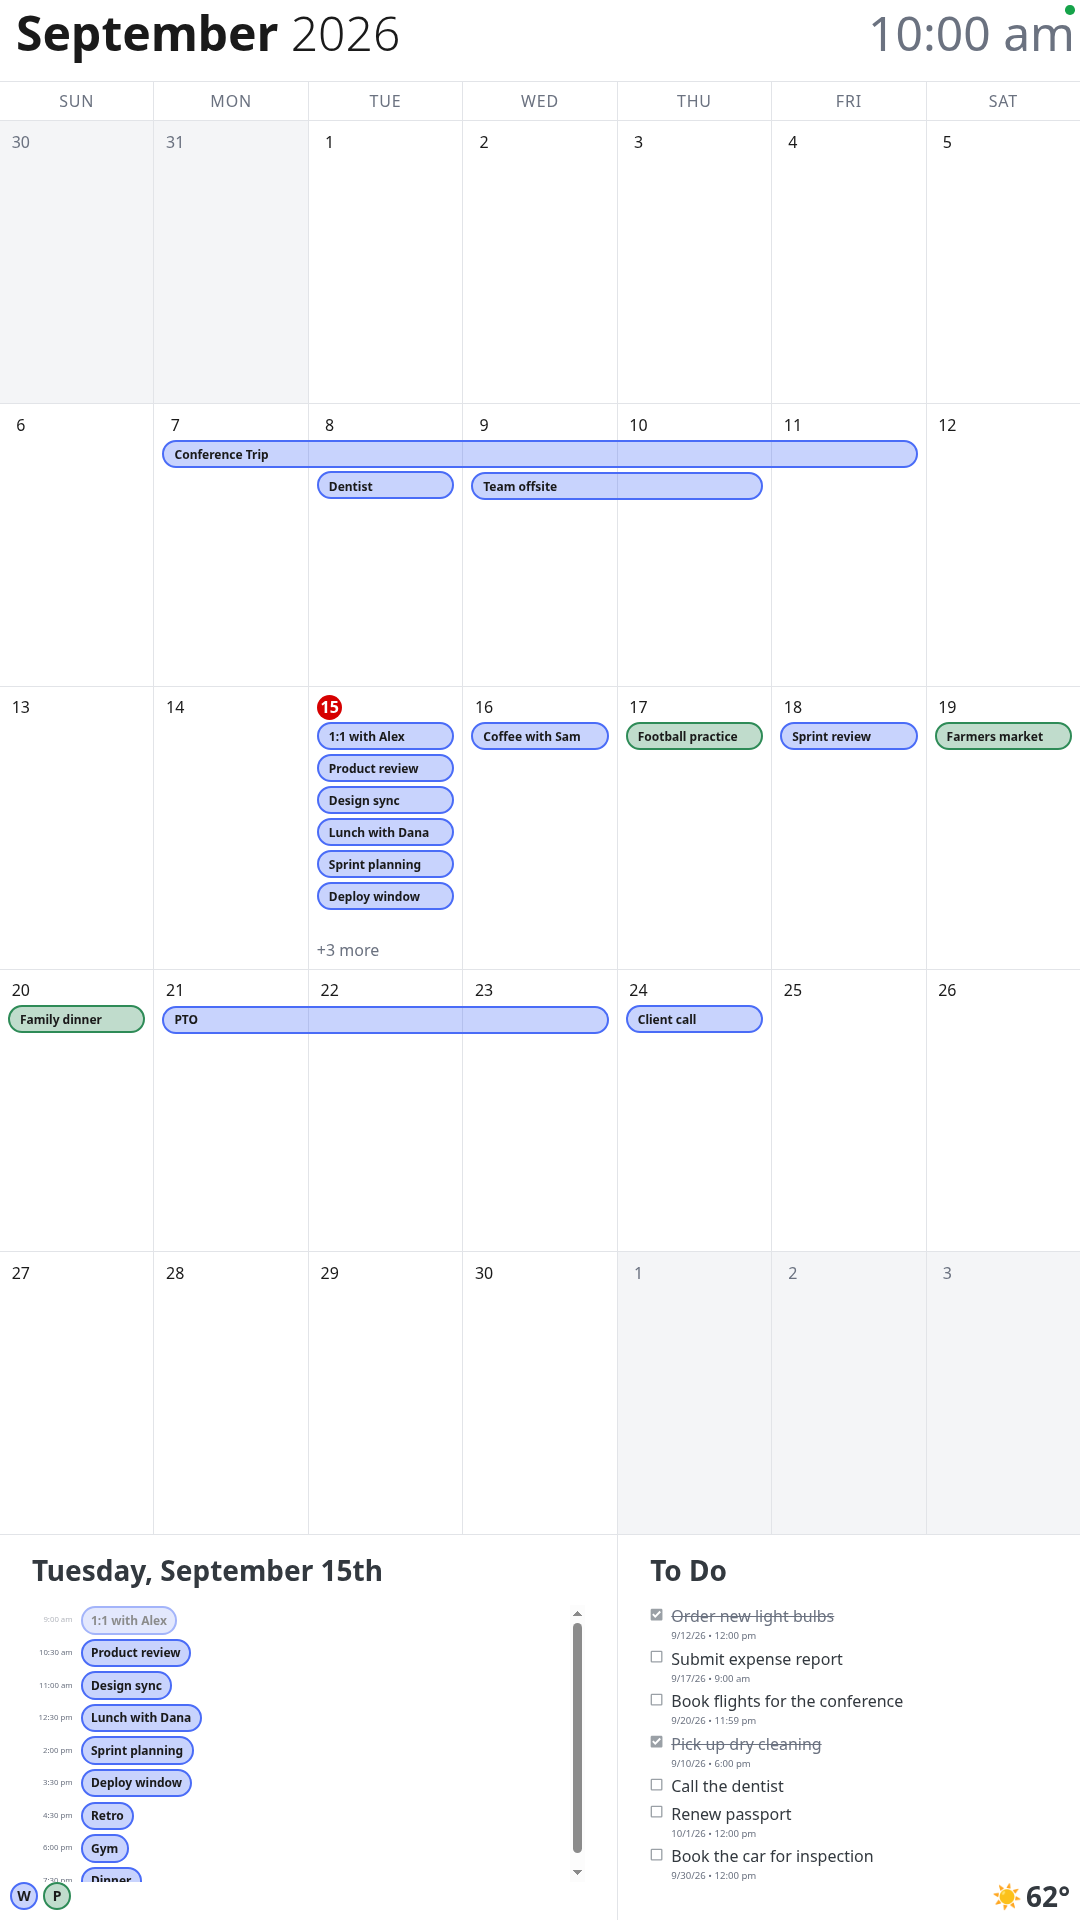
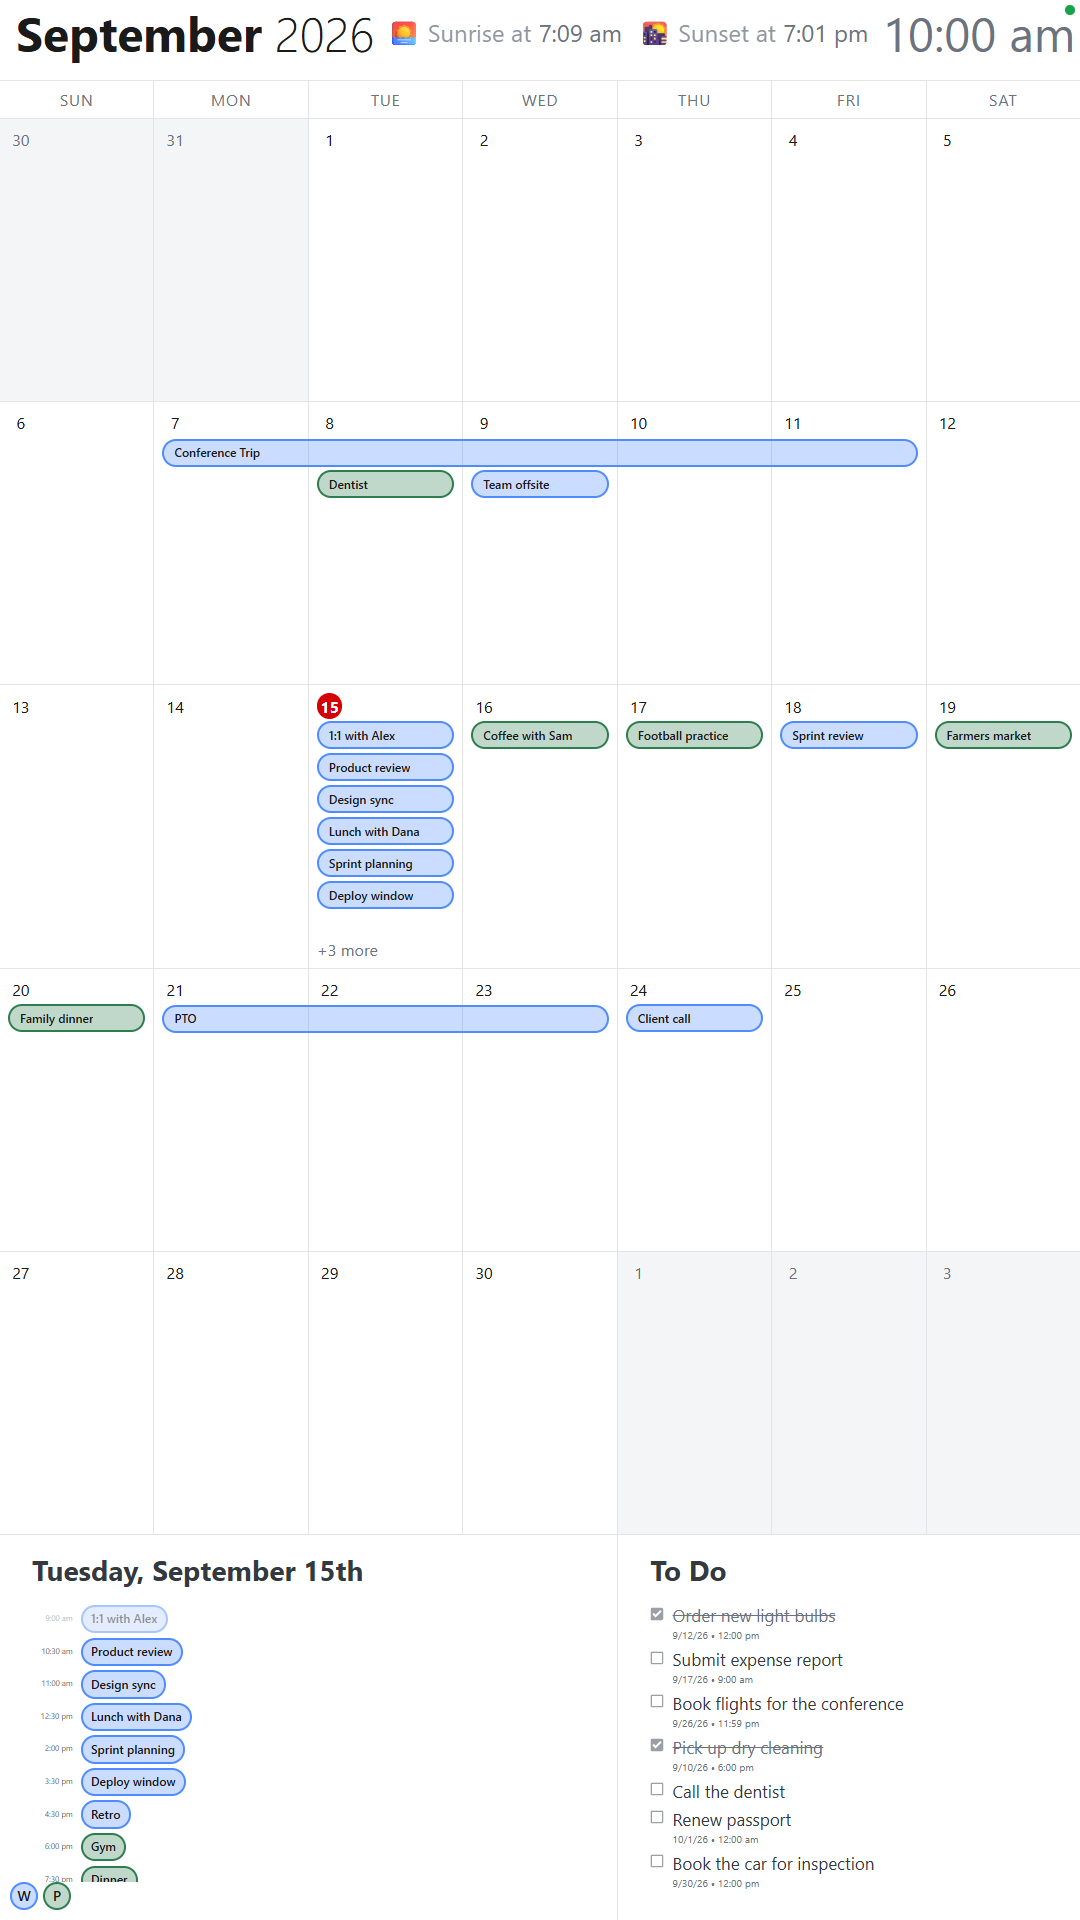
Refresh the demo screenshots and document the header, the per-day cap, and rebuilding after a pull

diff --git a/README.md b/README.md
@@ -28,7 +28,8 @@ these to see it fullscreen).
 *(The four screenshots above use demo data, not a real calendar — shown
 with a lot going on to demonstrate multi-day events, the "+N more"
 overflow on a busy day, and a mix of completed/pending to-do items with
-due dates.)*
+due dates. A location is set, which is what puts the sunrise and sunset
+times in the header.)*
 
 ## Why this exists
 
@@ -157,6 +158,68 @@ software rotation, some HDMI/DSI displays also support rotation via
 `/boot/firmware/config.txt` (`display_rotate` or `video=` framebuffer
 params) — check your specific display's docs if `wlr-randr`/`xrandr`
 doesn't take effect.
+
+## Sunrise and sunset in the header
+
+The header carries the day's sunrise and sunset between the month/year and the
+clock — `🌅 Sunrise at 7:09 am  🌇 Sunset at 7:01 pm`. Same for both: the
+whole point of a wall display is knowing whether it's still light outside
+without walking to a window, and sunrise is the other half of that after dark.
+
+These are the *same* two times the Automatic theme already switches on, not a
+second calculation. The backend works them out from the saved location with
+the public-domain sunrise equation (`server/src/services/sunService.js`,
+accurate to a minute or two — no API call, so nothing about this needs the
+Pi to reach a sunrise service), hands them over with every settings push, and
+the display prints them. What the wall says therefore cannot drift from what
+the display is actually doing, which is the failure a separate calculation
+would eventually have.
+
+Nothing is shown until a location is set in the companion app, and either time
+can be missing on its own at a latitude where the sun currently doesn't quite
+clear the horizon in either direction — the row shows what exists rather than
+guessing. If **Advanced** is on in the theme settings, these are the shifted
+times the display is acting on, not the raw astronomical ones; with Advanced
+off (the default) they're the real thing.
+
+The times roll over with the day: the backend rebroadcasts them once the date
+changes, so a display left running for weeks doesn't sit on yesterday's.
+
+## Microsoft calendar fetching
+
+Microsoft Graph needs a few things spelled out that Google Calendar's API
+doesn't, so the two providers are handled separately all the way through
+(Google in `calendarService.js`, Microsoft in `msCalendarService.js`).
+
+- **It polls on its own slower interval** (10 minutes, against the 60s default
+  for everything else), because a round re-reads each calendar's whole window
+  rather than asking what changed — see the point below.
+- **It reads `calendarView`, not `calendarView/delta`.** The delta variant
+  answers with a restricted property set: in one measured round, 1146 of 1488
+  events came back with no `subject` at all, and it doesn't reliably expand
+  recurring series, so whole weeks of recurring meetings were simply absent.
+  The plain endpoint returns complete events and expands recurrences, the same
+  thing Google's `singleEvents: true` gives on the other side. The cost is
+  re-reading the whole window each round, which is what the slower interval
+  pays for — and, as a bonus, there's no delta token to expire.
+- **Events are filtered the same way Google's are** — cancelled, draft, and
+  explicitly-declined events don't show; tentative and unanswered invitations
+  do, because Outlook lists those dimmed rather than hiding them.
+- **Each day is capped at two events.** A work calendar carries far more per
+  day than a wall has room for, and the overflow is invisible: the day cells
+  measure themselves and trim to "+N more", so a heavy day quietly becomes a
+  month of "+N more" badges that say nothing about what's actually on. Capping
+  at the display's own capacity keeps the days that still fit saying what they
+  always did, and stops the ones that don't from pretending to.
+
+  The two are chosen in the same order the day cell would have rendered them
+  (all-day first, then by start time) — otherwise the cap would drop the event
+  that was going to be shown and keep the one that was about to be trimmed. A
+  multi-day trip counts against every day it crosses, and an event that loses
+  its place on one day is dropped whole rather than left showing on the days
+  where it did fit. Google's calendars are untouched, and the cap is applied
+  when the list is read, not when it's cached, so nothing is lost: the cache
+  on disk stays complete and today's agenda and the to-do list are unaffected.
 
 ## Calendar legend and outside temperature
 
@@ -305,20 +368,20 @@ date rather than say what's on it, the same way the day numbers themselves
 stay visible; only titles go.
 
 <p align="center">
-  <a href="docs/demo-holiday-landscape-dark.png"><img src="docs/demo-holiday-landscape-dark.png" alt="Landscape, dark theme: October 2026, with Columbus Day on the 12th and Halloween on the 31st ringed in the holidays calendar's green, a sailboat and a jack-o'-lantern beside their day numbers" width="380"></a>
-  <a href="docs/demo-holiday-landscape-light.png"><img src="docs/demo-holiday-landscape-light.png" alt="Landscape, light theme: the same October 2026 month" width="380"></a>
+  <a href="docs/demo-holiday-landscape-dark.png"><img src="docs/demo-holiday-landscape-dark.png" alt="Landscape, dark theme: September 2026, with Labor Day on the 7th and Columbus Day on the 14th ringed in the holidays calendar's own gold, a hammer-and-wrench and a sailboat beside their day numbers" width="380"></a>
+  <a href="docs/demo-holiday-landscape-light.png"><img src="docs/demo-holiday-landscape-light.png" alt="Landscape, light theme: the same September 2026 month" width="380"></a>
 </p>
 <p align="center">
-  <a href="docs/demo-holiday-portrait-dark.png"><img src="docs/demo-holiday-portrait-dark.png" alt="Portrait, dark theme: October 2026 with the same two holiday days ringed and their images beside the numbers" width="220"></a>
-  <a href="docs/demo-holiday-portrait-light.png"><img src="docs/demo-holiday-portrait-light.png" alt="Portrait, light theme: the same October 2026 month" width="220"></a>
+  <a href="docs/demo-holiday-portrait-dark.png"><img src="docs/demo-holiday-portrait-dark.png" alt="Portrait, dark theme: September 2026 with the same two holiday days ringed and their images beside the numbers" width="220"></a>
+  <a href="docs/demo-holiday-portrait-light.png"><img src="docs/demo-holiday-portrait-light.png" alt="Portrait, light theme: the same September 2026 month" width="220"></a>
 </p>
 
-*(Demo data again, like the four above, with the clock moved to mid-October so
-a month with holidays in it is the one on screen. Columbus Day on the 12th and
-Halloween on the 31st are ringed in the Google holidays calendar's own green —
-the same green as their pills, and as the "H" in the legend — with the image
-each holiday is conventionally represented by sitting beside the number, at the
-number's own size. The 15th is today, in the fixed red it always uses.)*
+*(Demo data again, like the four above, with a third calendar added carrying
+the two US holidays that fall in September 2026. Labor Day on the 7th and
+Columbus Day on the 14th are ringed in that calendar's own gold — the same gold
+as their pills, and as the "H" in the legend — with the image each holiday is
+conventionally represented by sitting beside the number, at the number's own
+size. The 15th is today, in the fixed red it always uses.)*
 
 
 A separate small app (`companion/`) served at `/companion` lets you manage
@@ -425,13 +488,10 @@ all-day events Google really hands over, tagged the same way.)*
   trims what the wall display shows, it never touches the real task in
   Microsoft To Do, so un-completing or editing one afterward brings it
   right back. Microsoft calendar events are filtered the same way Google
-  ones are: cancelled events, drafts, and invitations you've explicitly
-  declined don't show up. Invitations you're still sitting on — a tentative
-  or unanswered RSVP — *do* show up, on both providers, because both Outlook
-  and Google Calendar list those dimmed rather than hiding them, and treating
-  an unanswered invite as a no made the wall look like it had lost a week of
-  meetings that were plainly on the calendar. Since Graph has no per-event
-  colors, a Microsoft calendar's own color is all its pills get.
+  ones are, and each day is capped at two of them — see
+  [Microsoft calendar fetching](#microsoft-calendar-fetching) for why, and for
+  the polling difference behind it. Since Graph has no per-event colors, a
+  Microsoft calendar's own color is all its pills get.
 - **Reconnect for calendars** — an account connected before this read
   Microsoft calendars has a token that was never consented to
   `Calendars.Read`, so its to-do lists work but its calendars can't be
@@ -647,6 +707,11 @@ cd ~/WallCalToDo/companion && npm install && npm run build
 
 This takes a few minutes on a Pi — that's normal.
 
+The two `npm run build` steps are what actually produce what the display and
+the companion app serve; the backend picks both up from those directories
+(`server/src/index.js`). Nothing rebuilds them on its own later, so they have
+to be re-run after every `git pull` — see "Managing it later" below.
+
 ### 6. Run the backend as a background service
 
 ```
@@ -779,6 +844,26 @@ automatically (see "Auto-update behavior" above).
 
 ### Managing it later
 
+**To update to a newer version of this project**, `git pull` on its own is
+*not* enough. Both frontends are served as built output (`frontend/dist` and
+`companion/dist`), and those directories are gitignored, so a pull updates the
+source and leaves the files the display is actually running untouched — which
+shows up as a feature that "didn't take", with the old version still on the
+wall. After pulling, rebuild both and restart the backend:
+
+```
+cd ~/WallCalToDo && git pull
+cd ~/WallCalToDo/frontend && npm install && npm run build
+cd ~/WallCalToDo/companion && npm install && npm run build
+sudo systemctl restart wallcaltodo
+```
+
+Any change under `server/` needs only the restart; anything under `frontend/`
+or `companion/` needs its rebuild, and the browser on the Pi is running
+fullscreen with no page reload, so the restart (or a reboot) is what actually
+puts it on screen. Skipping the rebuild is safe in the sense that nothing
+breaks — you just keep running the version you had.
+
 From your phone, on the same Wi-Fi, open
 `http://wallcaltodo.local:3000/companion` (swap in your own hostname) to
 toggle calendars or disconnect an account — this works fine from your
@@ -866,7 +951,8 @@ needed. Widen it back out (wider than tall) to preview landscape instead.
 The visual design lives directly in this repo now — `frontend/src/styles/
 tokens.css` for the base color/spacing/type scale, `frontend/src/styles/
 base.css` and the component files (`CalendarView.jsx`, `CalendarHeader.jsx`,
-`DayAgenda.jsx`, `TodoView.jsx`, `Legend.jsx`, `WeatherWidget.jsx`,
+`SunTimes.jsx`, `DayAgenda.jsx`, `TodoView.jsx`, `Legend.jsx`,
+`WeatherWidget.jsx`,
 `WeatherView.jsx`, `BirthdayMark.jsx`) for the
 actual layout and styling. It's been iterated on in place rather than
 built separately and dropped in: the calendar grid, event pill styling (a
